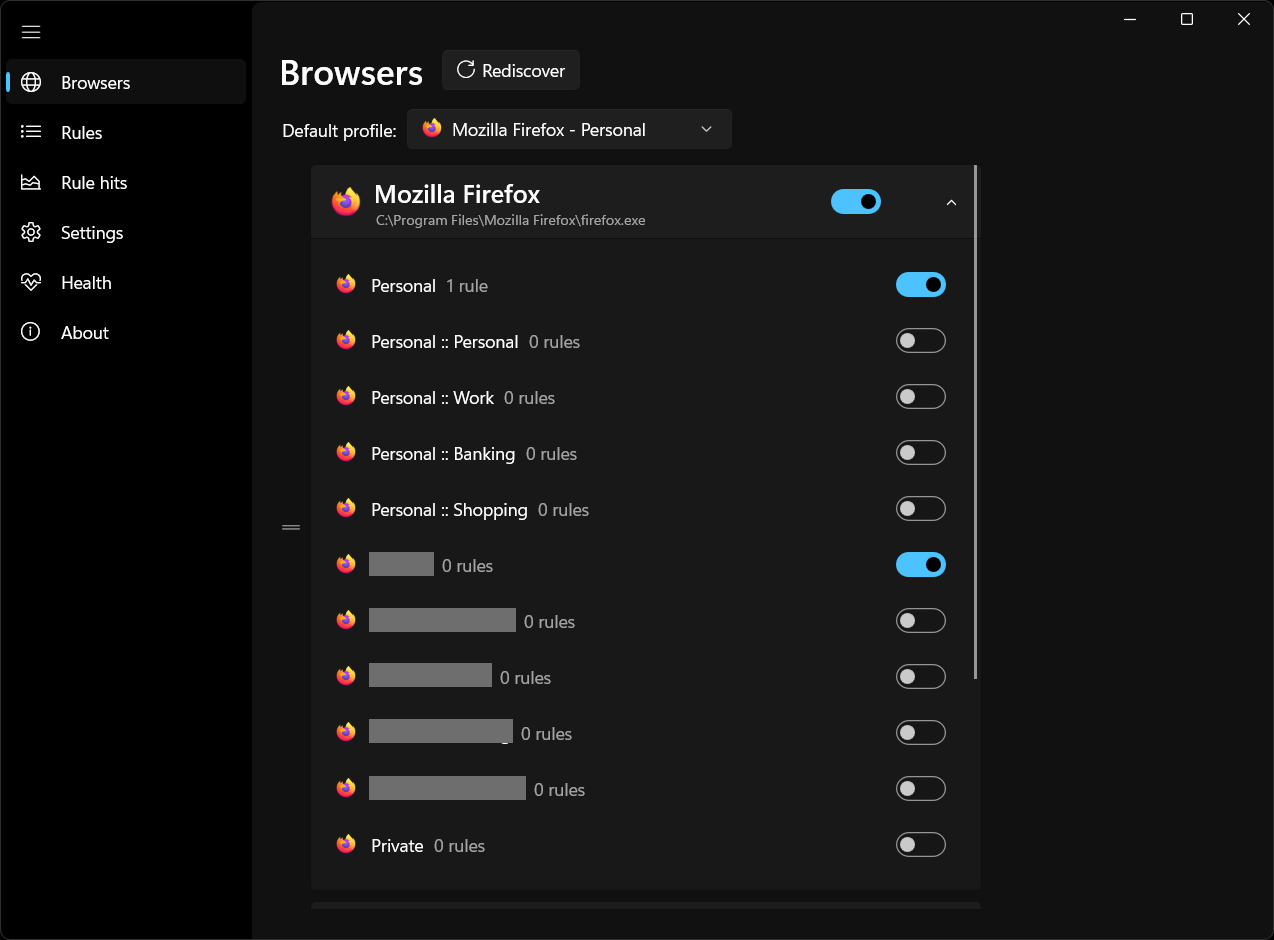
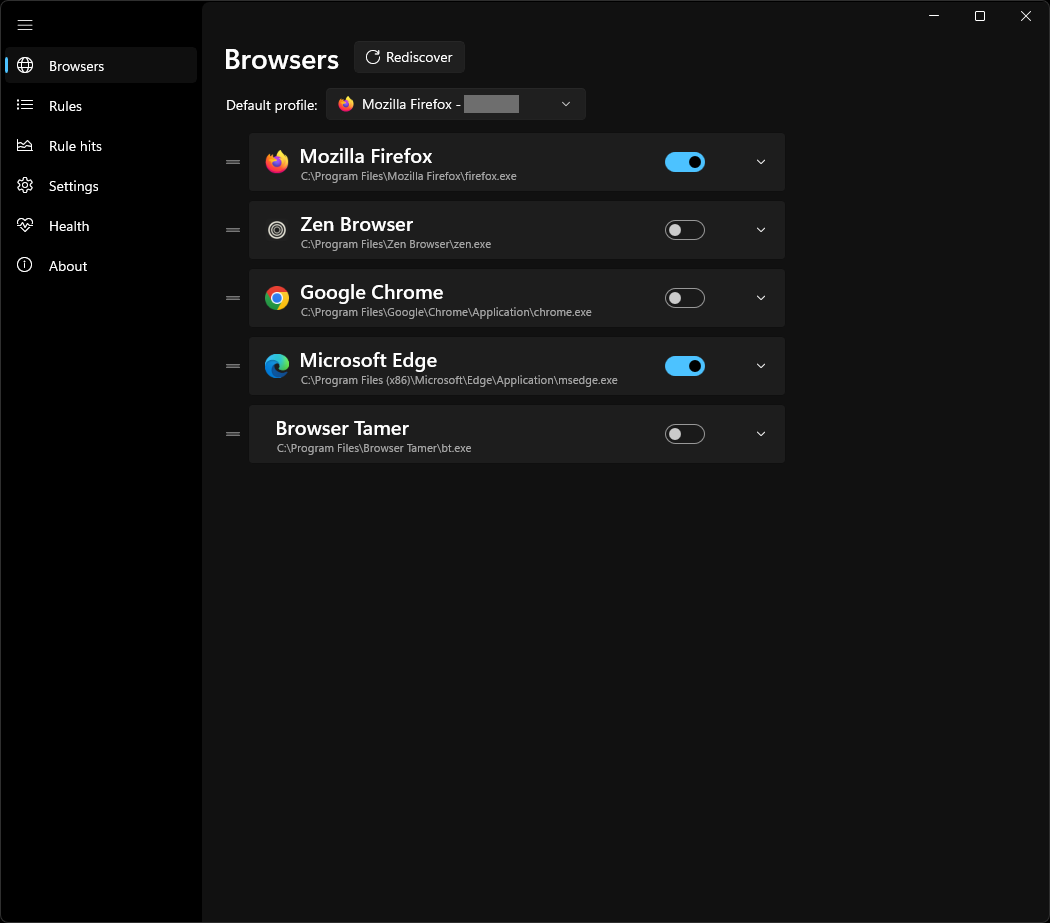
docs: split browsers screenshot into collapsed and expanded views

diff --git a/docs/index.html b/docs/index.html
@@ -58,6 +58,10 @@
             <figcaption>Browsers</figcaption>
           </figure>
           <figure>
+            <img src="img/browsers-profiles.png" alt="Browser Wrangler browsers page with profiles expanded">
+            <figcaption>Profiles &amp; containers</figcaption>
+          </figure>
+          <figure>
             <img src="img/rules.png" alt="Browser Wrangler rules page">
             <figcaption>Rules</figcaption>
           </figure>

diff --git a/README.md b/README.md
@@ -46,9 +46,13 @@ them permanently.
 
 ### Browsers
 
-Toggle which browsers and profiles appear in the picker.
+Toggle which browsers appear in the picker, and drag to reorder them.
 
 ![Browsers page](docs/img/browsers.png)
+
+Expand a browser to toggle its profiles, containers and private/incognito entries.
+
+![Browsers page with profiles expanded](docs/img/browsers-profiles.png)
 
 ### Rules
 
